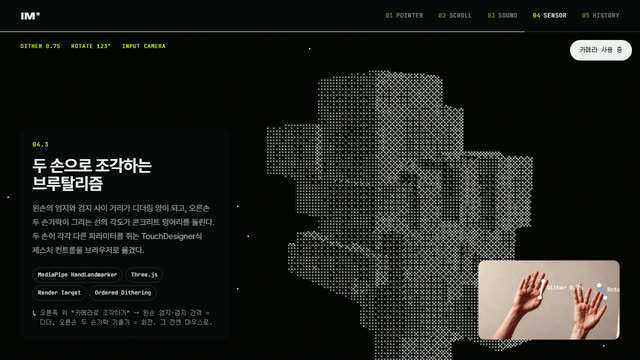
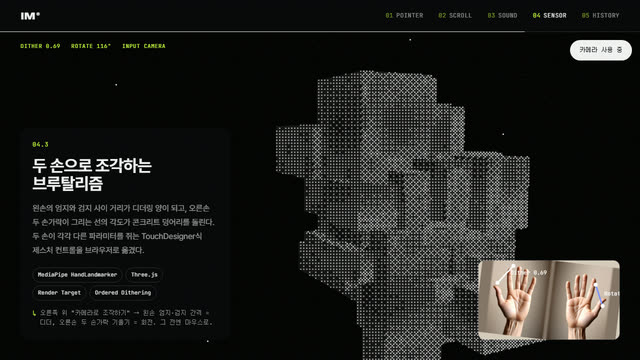
docs: recapture hand demos with anatomically correct (5-finger) hands

diff --git a/README.md b/README.md
@@ -225,5 +225,5 @@ scripts/                   이미지 생성(sd-turbo), README 캡처
 - 아스키 셰이더의 5×5 비트맵 글리프 기법: movAX13h
 - 손 인식: [MediaPipe Hand Landmarker](https://ai.google.dev/edge/mediapipe/solutions/vision/hand_landmarker) (Apache 2.0)
 - 라이브러리: [Three.js](https://threejs.org), [GSAP](https://gsap.com), [Lenis](https://lenis.darkroom.engineering), [simplex-noise](https://github.com/jwagner/simplex-noise.js)
-- 타임라인·패럴랙스 이미지와 README 캡처용 카메라 입력은 로컬에서 **Stable Diffusion Turbo**로 생성했습니다 (실제 인물 아님, [`scripts/gen_images.py`](scripts/gen_images.py)). sd-turbo 모델 라이선스 조건을 따릅니다.
+- 타임라인·패럴랙스 이미지와 README 캡처용 카메라 입력은 로컬에서 **Stable Diffusion Turbo**와 **SDXL-Lightning**으로 생성했습니다 (실제 인물 아님, [`scripts/gen_images.py`](scripts/gen_images.py)). 손 영상은 손가락 수가 정확한 한 손을 골라 좌우 반전해 합성했습니다. 각 모델의 라이선스 조건을 따릅니다.
 - 영감: [Lusion](https://lusion.co), 브루탈리즘 데모는 Genuary Day 23 "Inspired by brutalism" TouchDesigner 작업에서 아이디어를 얻었습니다.
